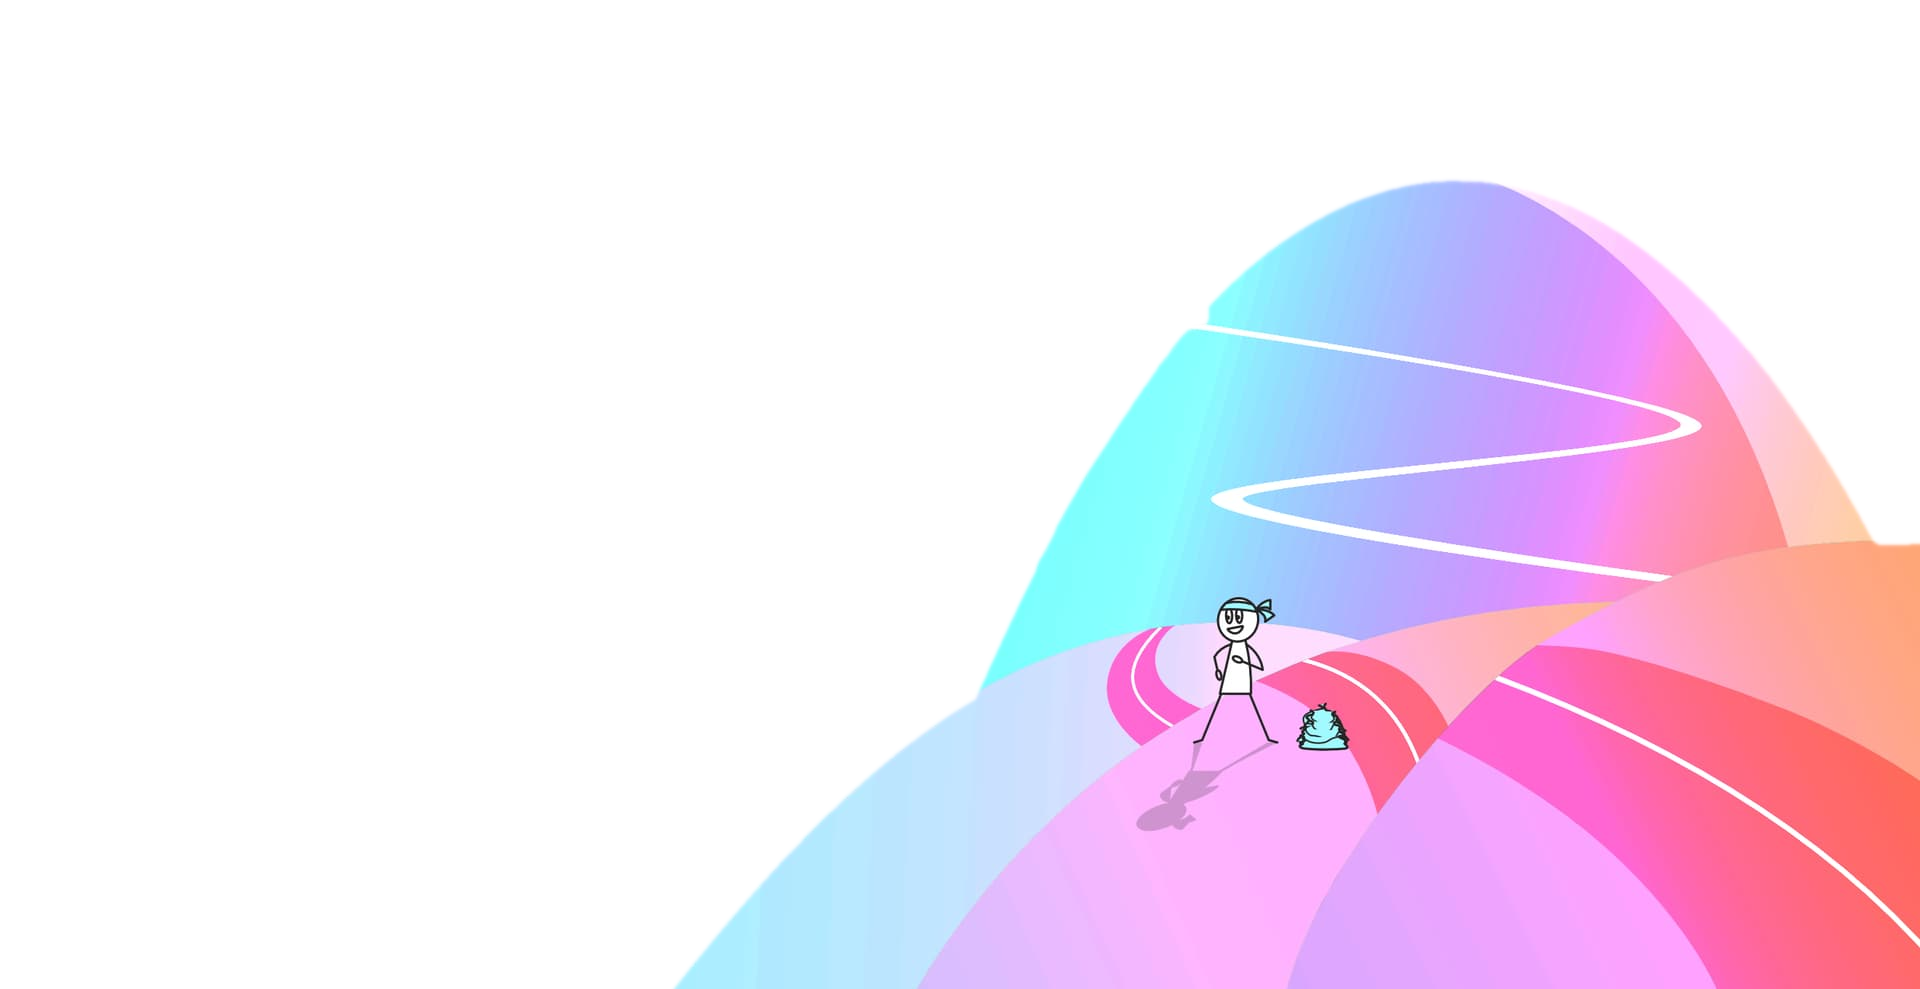
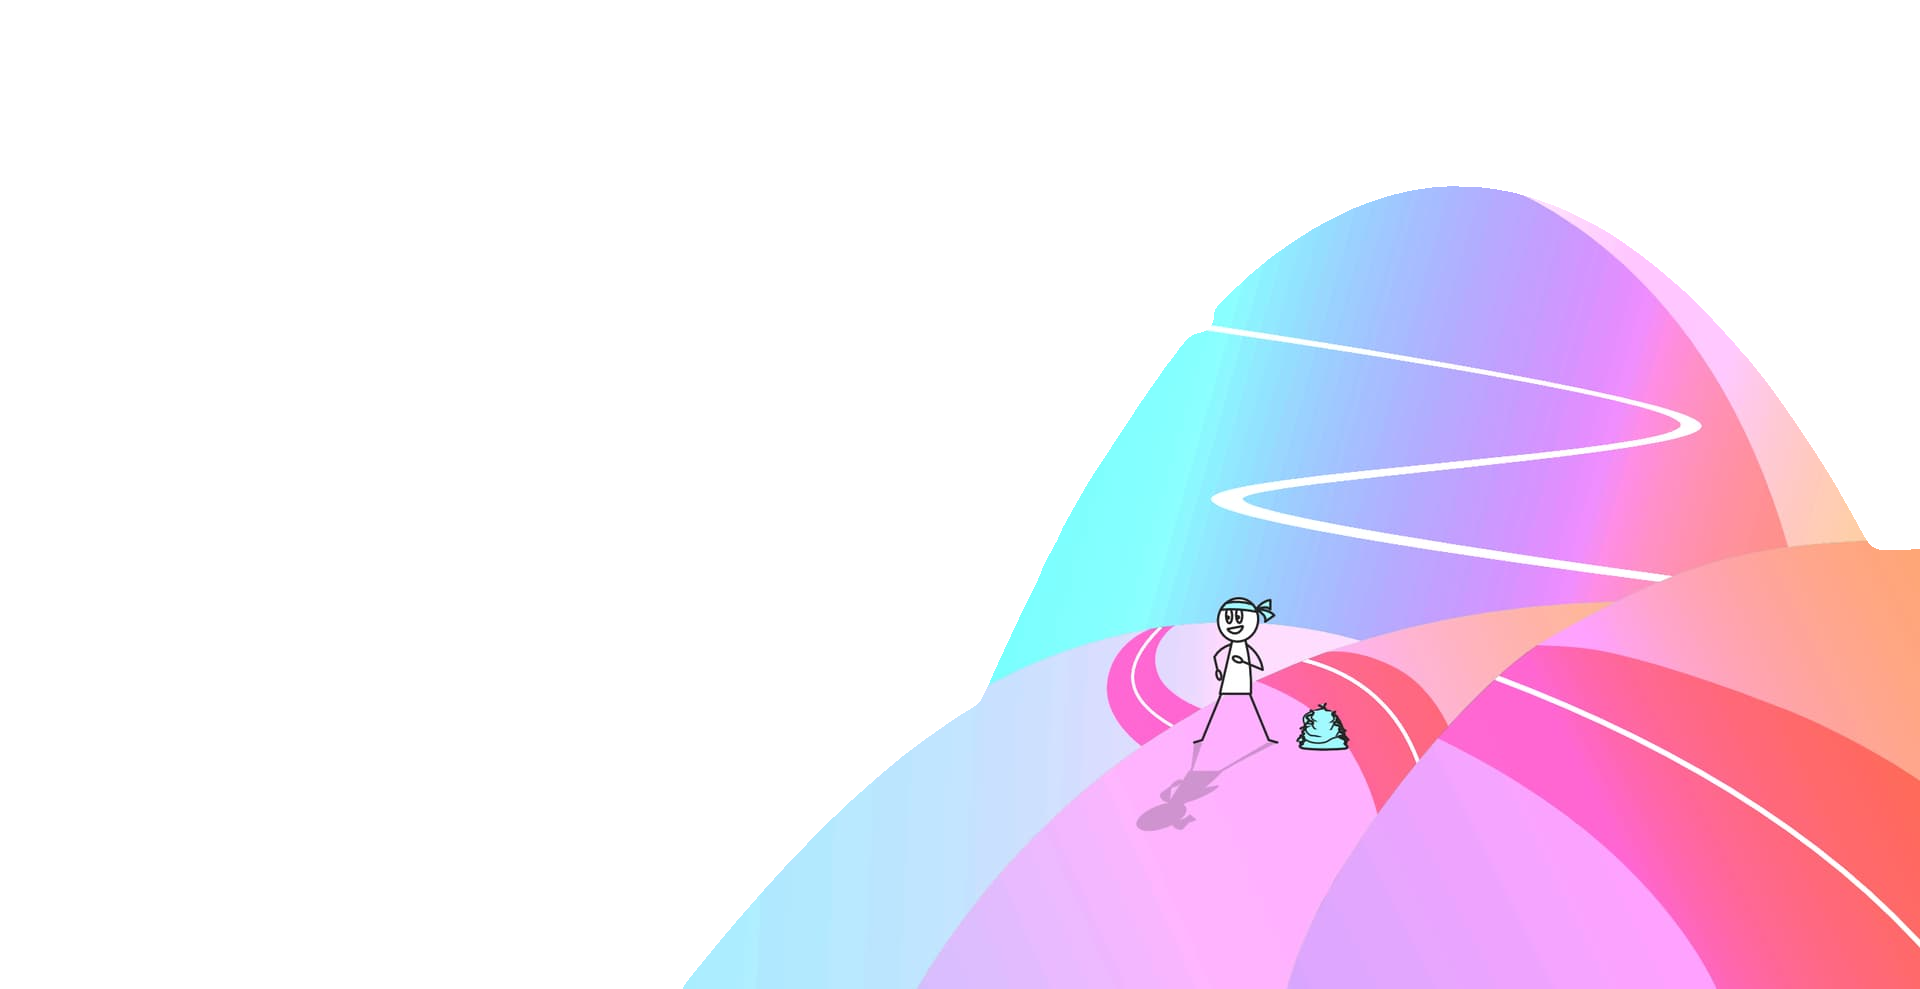
style: :art: style updates to the hero image

diff --git a/src/app/(home)/_components/hero/hero.tsx b/src/app/(home)/_components/hero/hero.tsx
@@ -5,8 +5,8 @@ import TechnologiesMarquee from "./technologies-marquee"
 
 const Hero = () => {
 	return (
-		<div className="relative mt-12 h-[80vh] ">
-			<div className="absolute inset-0 w-[130rem]  overflow-hidden max-2xl:hidden ">
+		<div className="relative h-[85vh] pt-8 ">
+			<div className="absolute inset-0 w-full  overflow-hidden max-2xl:hidden ">
 				<Image
 					fill
 					className="object-cover"
@@ -14,7 +14,7 @@ const Hero = () => {
 					src="/hero/hero.png"
 				/>
 			</div>
-			<div className="mx-auto max-w-7xl p-4 text-left ">
+			<div className="mx-auto max-w-7xl p-4 pl-12 text-left ">
 				<h1 className="text-4xl font-bold leading-tight">
 					I&apos;m a{" "}
 					<span className="gradient-text text-5xl font-bold max-sm:block">
@@ -23,7 +23,7 @@ const Hero = () => {
 					<br className="max-sm:hidden" />
 					with more than two years of experience.
 				</h1>
-				<div className="relative ml-16 w-fit pb-20 pr-16 pt-8">
+				<div className="relative ml-16 w-fit pb-20 pr-16 pt-8 max-sm:pr-8">
 					<HeroParagraph />
 					<div className="absolute bottom-0 right-0 flex gap-4">
 						<HeroButtons />

diff --git a/src/app/(home)/_components/Logo.tsx b/src/app/(home)/_components/Logo.tsx
@@ -1,5 +1,5 @@
+import { File, Linkedin, Twitter, Youtube } from "lucide-react"
 import Image from "next/image"
-import { File, Home, Linkedin, Twitter, Youtube } from "lucide-react"
 import Link from "next/link"
 
 export const Logo = () => {

diff --git a/src/app/(home)/layout.tsx b/src/app/(home)/layout.tsx
@@ -15,7 +15,7 @@ export default function RootLayout({
 	return (
 		<TRPCReactProvider>
 			<Navbar />
-			<div className="pt-14">{children}</div>
+			<div className="pt-[90px]">{children}</div>
 		</TRPCReactProvider>
 	)
 }

diff --git a/src/app/(home)/page.tsx b/src/app/(home)/page.tsx
@@ -4,7 +4,6 @@ export default async function Home() {
 	return (
 		<div className="">
 			<Hero />
-			<Hero />
 		</div>
 	)
 }
